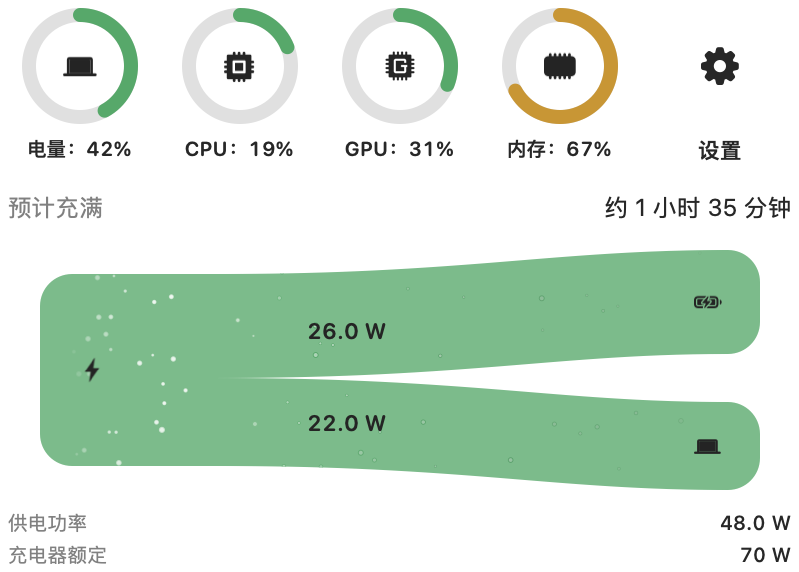
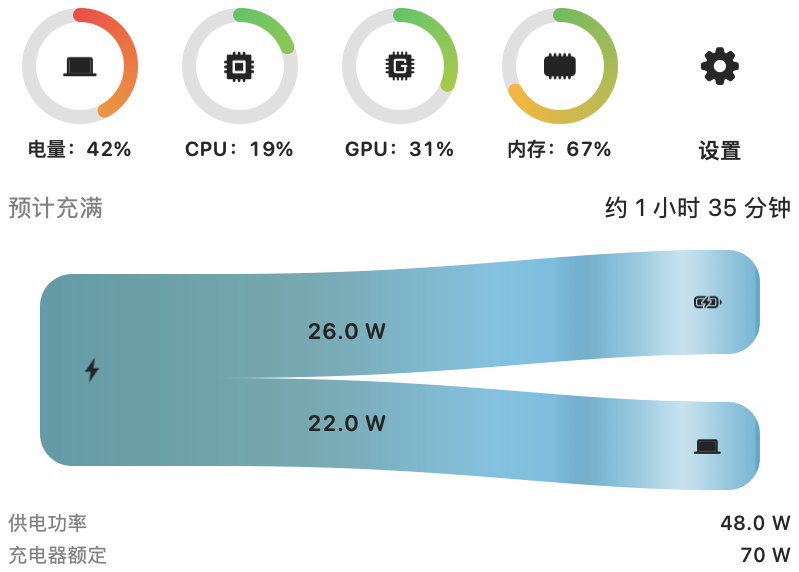
Show flow, color, and motion together in four README previews.

diff --git a/MacPower/ReadmeAssetCapture.swift b/MacPower/ReadmeAssetCapture.swift
@@ -69,17 +69,13 @@ enum ReadmeAssetCapture {
             popover.setValue(true, forKey: "shouldHideAnchor")
         }
 
+        // One shot per flow shape. Tint and motion ride along so the gallery
+        // does not need a separate image for every customization axis.
         let shots: [Shot] = [
             .init(name: "flow-discharging", mode: .discharging, motion: .particles, tint: .semantic),
-            .init(name: "flow-adapter-hold", mode: .adapterHold, motion: .particles, tint: .semantic),
-            .init(name: "flow-underpowered", mode: .underpowered, motion: .particles, tint: .semantic),
-            .init(name: "flow-charging", mode: .charging, motion: .particles, tint: .semantic),
-            .init(name: "flow-charging-filaments", mode: .charging, motion: .filaments, tint: .semantic),
-            .init(name: "flow-charging-off", mode: .charging, motion: .off, tint: .semantic),
-            .init(name: "flow-charging-highContrast", mode: .charging, motion: .particles, tint: .highContrast),
-            .init(name: "flow-charging-glide", mode: .charging, motion: .sheen, tint: .glide),
-            .init(name: "flow-discharging-smooth", mode: .discharging, motion: .filamentsSolid, tint: .smooth),
-            .init(name: "flow-adapter-hold-gradient", mode: .adapterHold, motion: .particlesWhite, tint: .gradient)
+            .init(name: "flow-adapter-hold", mode: .adapterHold, motion: .particlesWhite, tint: .gradient),
+            .init(name: "flow-underpowered", mode: .underpowered, motion: .filaments, tint: .highContrast),
+            .init(name: "flow-charging", mode: .charging, motion: .sheen, tint: .glide)
         ]
 
         for shot in shots {

diff --git a/README.en.md b/README.en.md
@@ -12,11 +12,8 @@ A menu-bar battery monitor for MacBook. It stays out of the Dock and opens a **L
 
 | | |
 | --- | --- |
-| ![Battery → Mac · particles](docs/readme/flow-discharging.png) **Battery → Mac** · particles | ![Adapter → Mac · particles](docs/readme/flow-adapter-hold.png) **Adapter → Mac** · particles |
-| ![Adapter + battery → Mac](docs/readme/flow-underpowered.png) **Adapter + battery → Mac** | ![Adapter → battery + Mac](docs/readme/flow-charging.png) **Adapter → battery + Mac** |
-| ![Filaments](docs/readme/flow-charging-filaments.png) **Filaments** | ![No motion](docs/readme/flow-charging-off.png) **No motion** |
-| ![High contrast](docs/readme/flow-charging-highContrast.png) **High contrast** | ![Gradient + slide](docs/readme/flow-charging-glide.png) **Gradient + slide** |
-| ![Smooth · filaments](docs/readme/flow-discharging-smooth.png) **Smooth** | ![Gradient](docs/readme/flow-adapter-hold-gradient.png) **Gradient** |
+| ![Battery → Mac · particles](docs/readme/flow-discharging.png) **Battery → Mac** · particles | ![Adapter → Mac · gradient](docs/readme/flow-adapter-hold.png) **Adapter → Mac** · gradient |
+| ![Adapter + battery → Mac · filaments · high contrast](docs/readme/flow-underpowered.png) **Adapter + battery → Mac** · filaments · high contrast | ![Adapter → battery + Mac · slide](docs/readme/flow-charging.png) **Adapter → battery + Mac** · slide |
 
 ## Features
 
